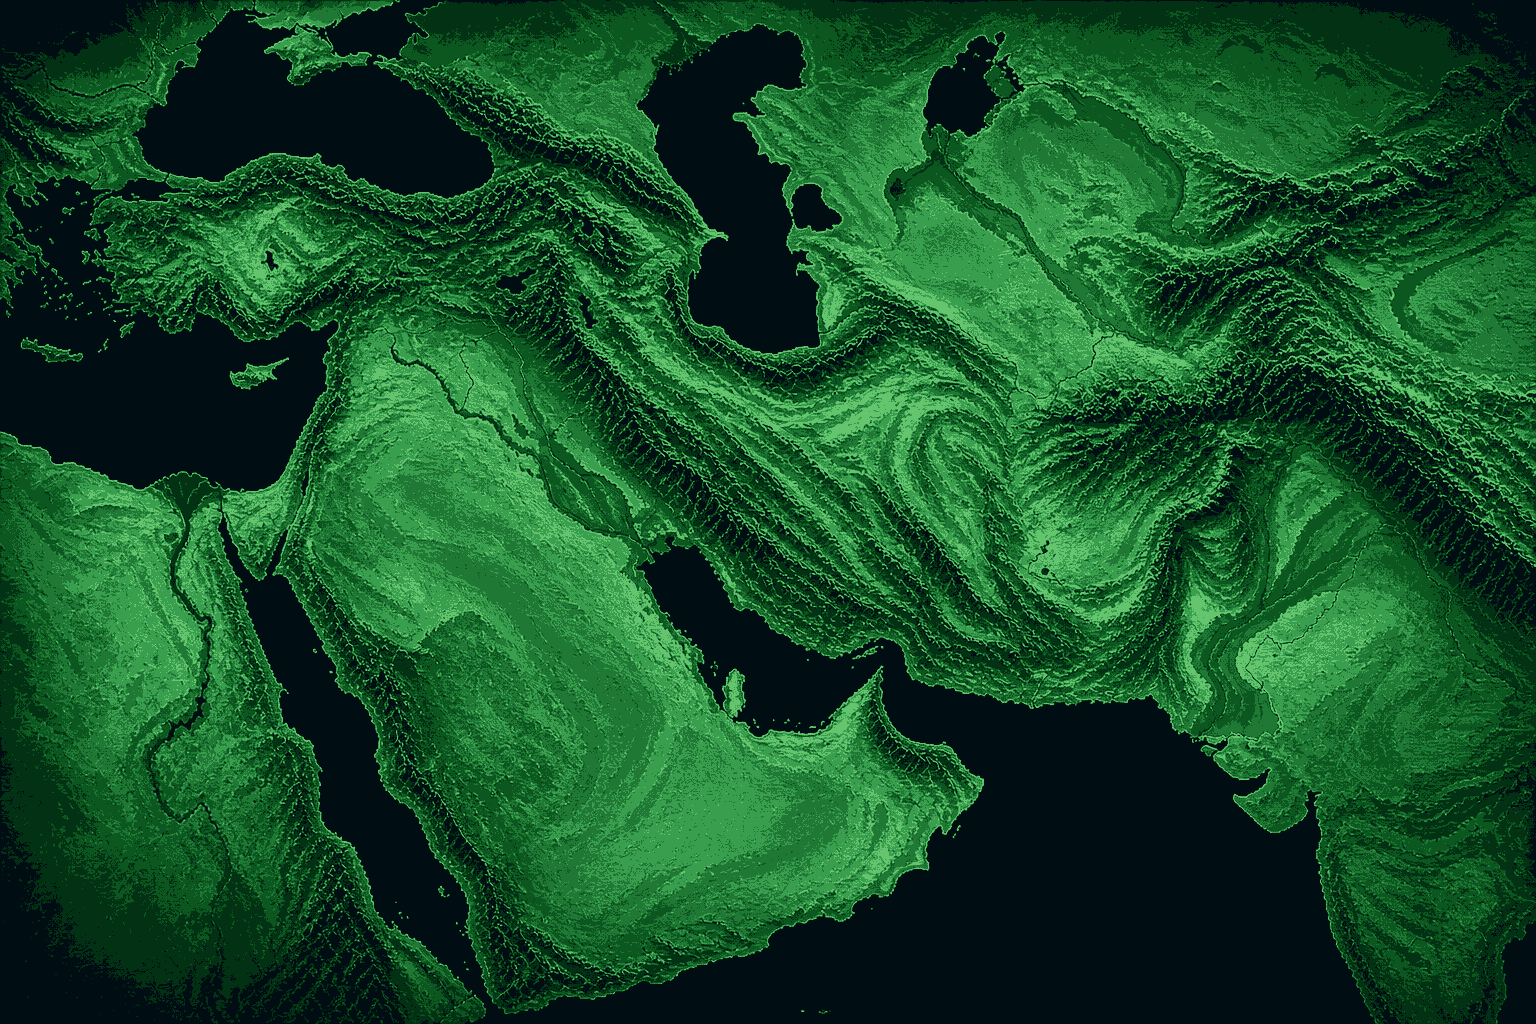
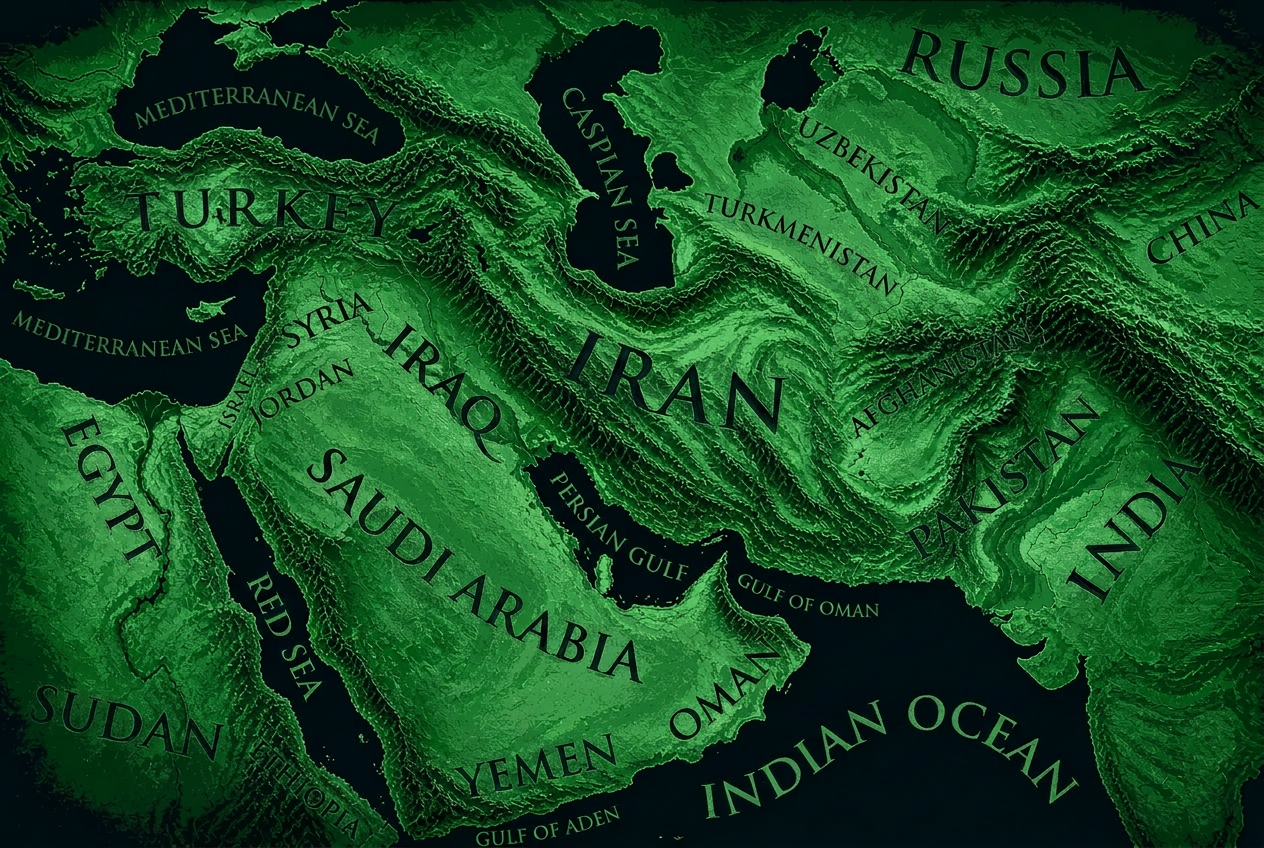
Update backgrounds.

diff --git a/game.html b/game.html
@@ -271,7 +271,7 @@ body::before {
   align-items: center; justify-content: center; gap: 24px;
 }
 #screen-title h1 {
-  font-family: var(--px); font-size: 42px; letter-spacing: .2em;
+  font-family: var(--px); font-size: 32px; letter-spacing: .2em;
   color: var(--grn); text-shadow: 0 0 40px rgba(82,255,143,.5);
 }
 #screen-title .subtitle {
@@ -1620,6 +1620,10 @@ body::before {
   image-rendering: pixelated;
   image-rendering: crisp-edges;
   filter: brightness(0.9) contrast(0.85);
+}
+/* Farsi map background when language is Persian */
+.lang-fa .map-bg {
+  background-image: url('image/map_background/satellitemap_farsi.png');
 }
 
 /* Coordinate markers on map */
@@ -5683,7 +5687,7 @@ const mapController = {
     console.log('[MapController] init - viewport:', this.viewportWidth, 'x', this.viewportHeight);
     
     // Start zoomed out to show all of Iran (dramatic zoom-in happens after)
-    this.zoom = 0.8;
+    this.zoom = 0.6;
     this.targetZoom = 2.0;
     
     // Center the map initially (at zoom level)
@@ -5700,7 +5704,7 @@ const mapController = {
     const effectiveHeight = MAP_CANVAS_HEIGHT * this.zoom;
     const centerX = (effectiveWidth - this.viewportWidth) / 2;
     const centerY = (effectiveHeight - this.viewportHeight) / 2;
-    const northOffset = 150 * this.zoom;  // Shift view north
+    const northOffset = 400 * this.zoom;  // Shift view north
     this.position = { x: -centerX, y: -centerY + northOffset };
     this.applyTransform();
     console.log('[MapController] centerMap at zoom', this.zoom, ':', this.position.x, this.position.y);
